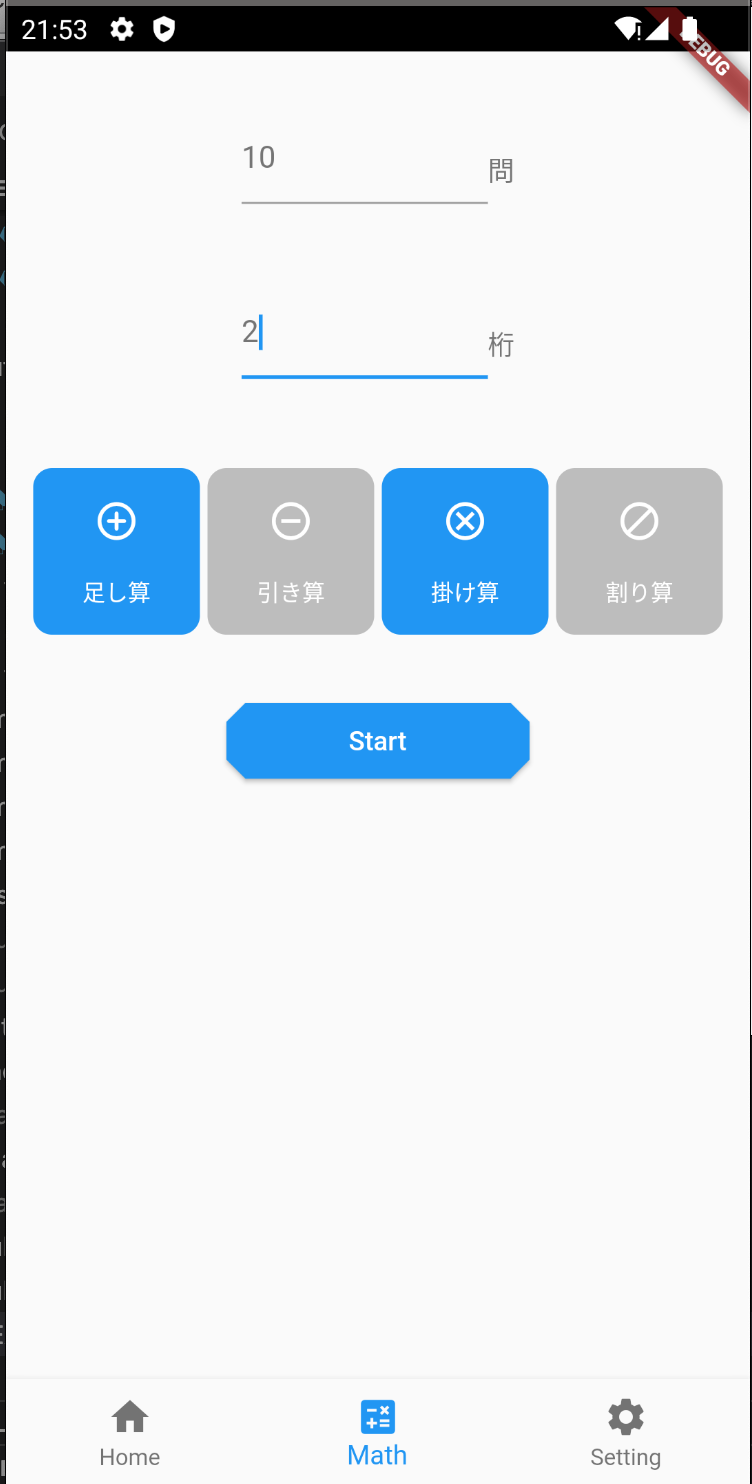
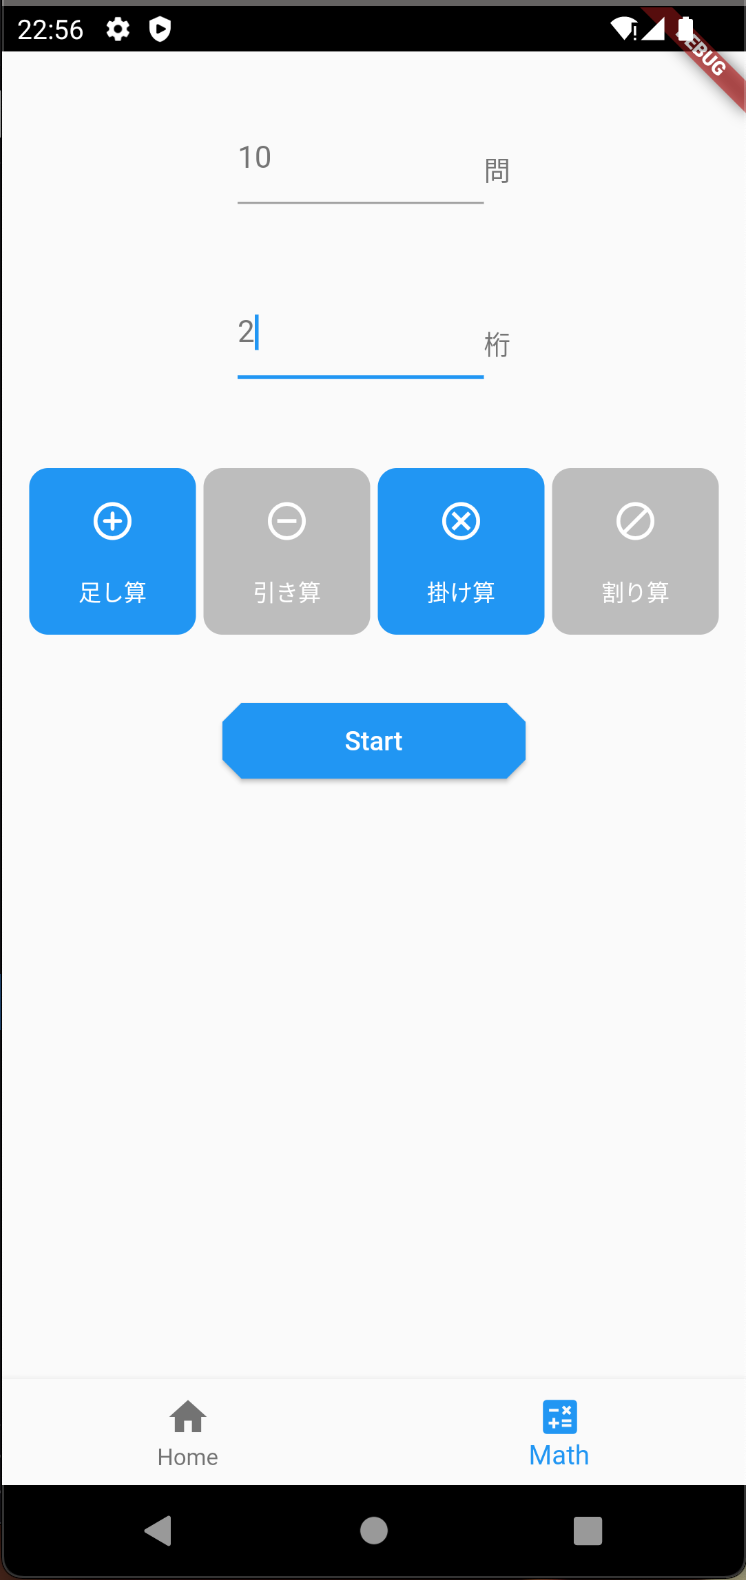
feat: 設定タブ削除

diff --git a/lib/main.dart b/lib/main.dart
@@ -6,7 +6,6 @@ import 'package:material_math/main_state.dart';
 import 'package:material_math/main_state_notifier.dart';
 import 'package:material_math/pages/home/home_screen.dart';
 import 'package:material_math/pages/math/questionFormatSetting/question_format_setting_screen.dart';
-import 'package:material_math/pages/setting/setting_screen.dart';
 import 'package:material_math/util/app_color.dart';
 import 'package:material_math/util/typeAdapter/question_submission_result_type_adapter.dart';
 import 'package:provider/provider.dart';
@@ -72,7 +71,6 @@ class _BottomNavigationBarWidgetState extends State<BottomNavigationBarWidget> {
   static final List<Widget> _widgetOptions = <Widget>[
     const HomeScreen(),
     const QuestionFormatSettingScreen(),
-    const SettingScreen(),
   ];
 
   @override
@@ -92,10 +90,6 @@ class _BottomNavigationBarWidgetState extends State<BottomNavigationBarWidget> {
           BottomNavigationBarItem(
             icon: Icon(Icons.calculate),
             label: 'Math',
-          ),
-          BottomNavigationBarItem(
-            icon: Icon(Icons.settings),
-            label: 'Setting',
           ),
         ],
         currentIndex: selectedIndex,
